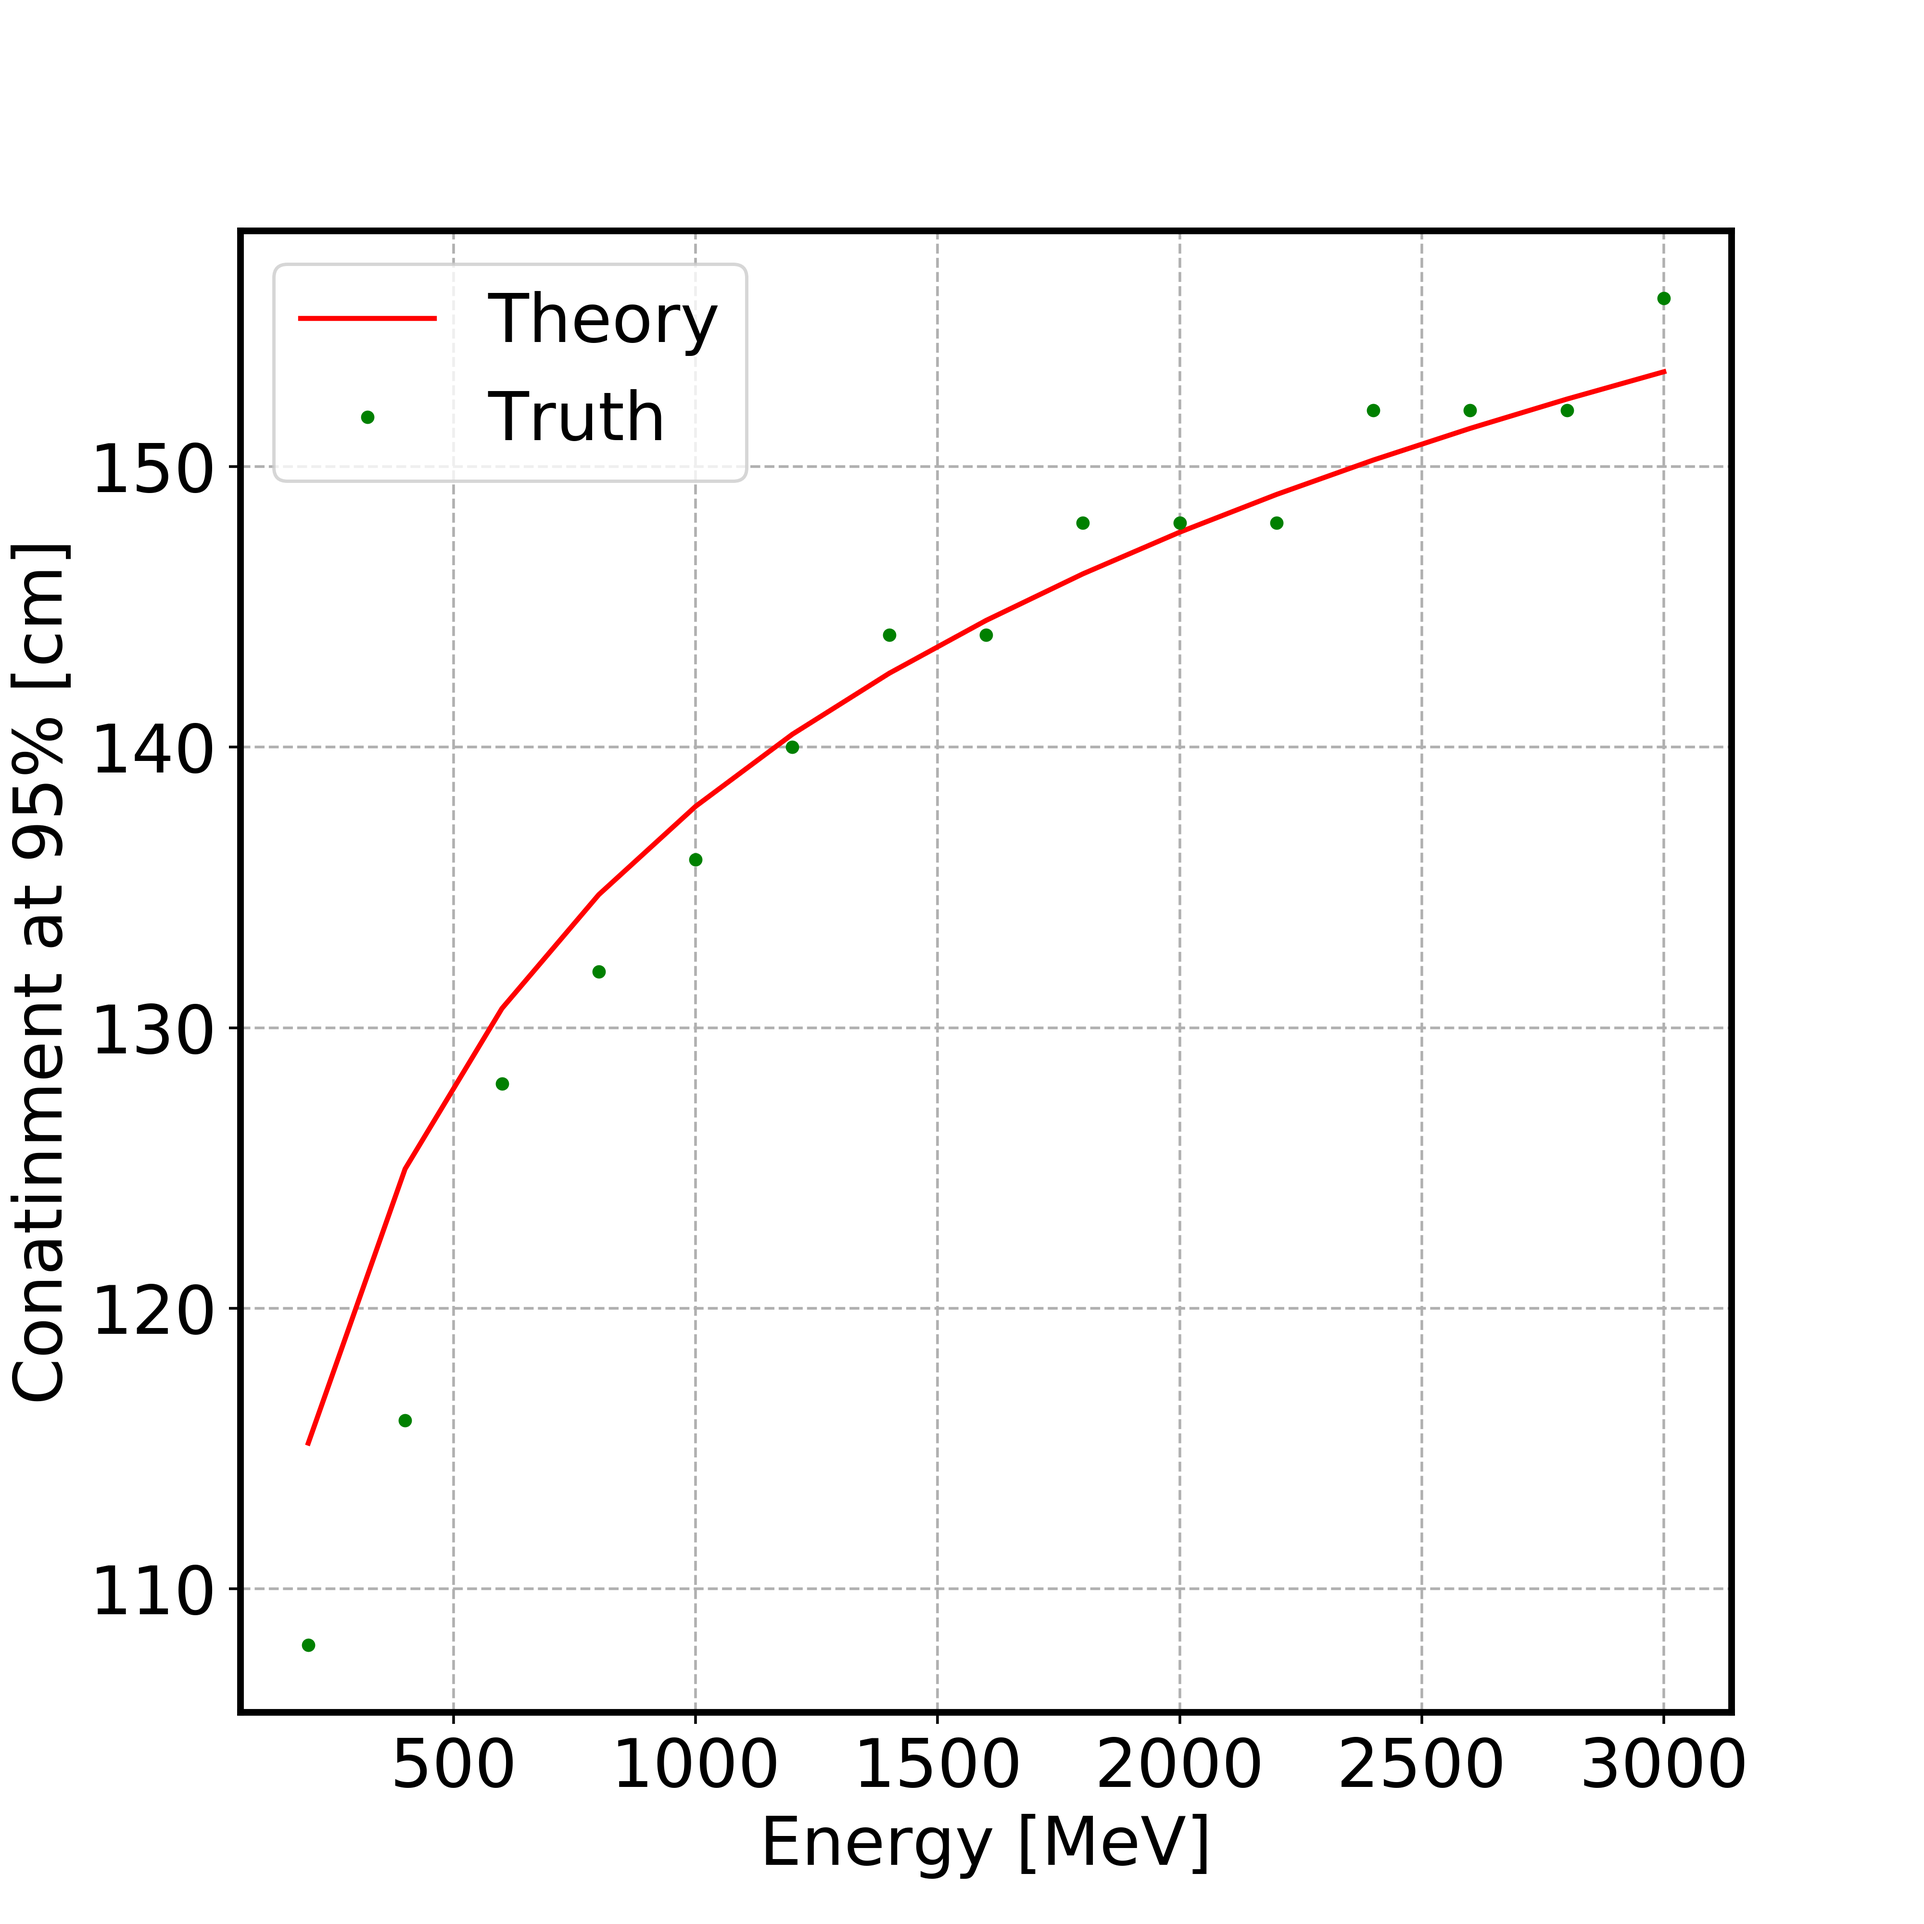
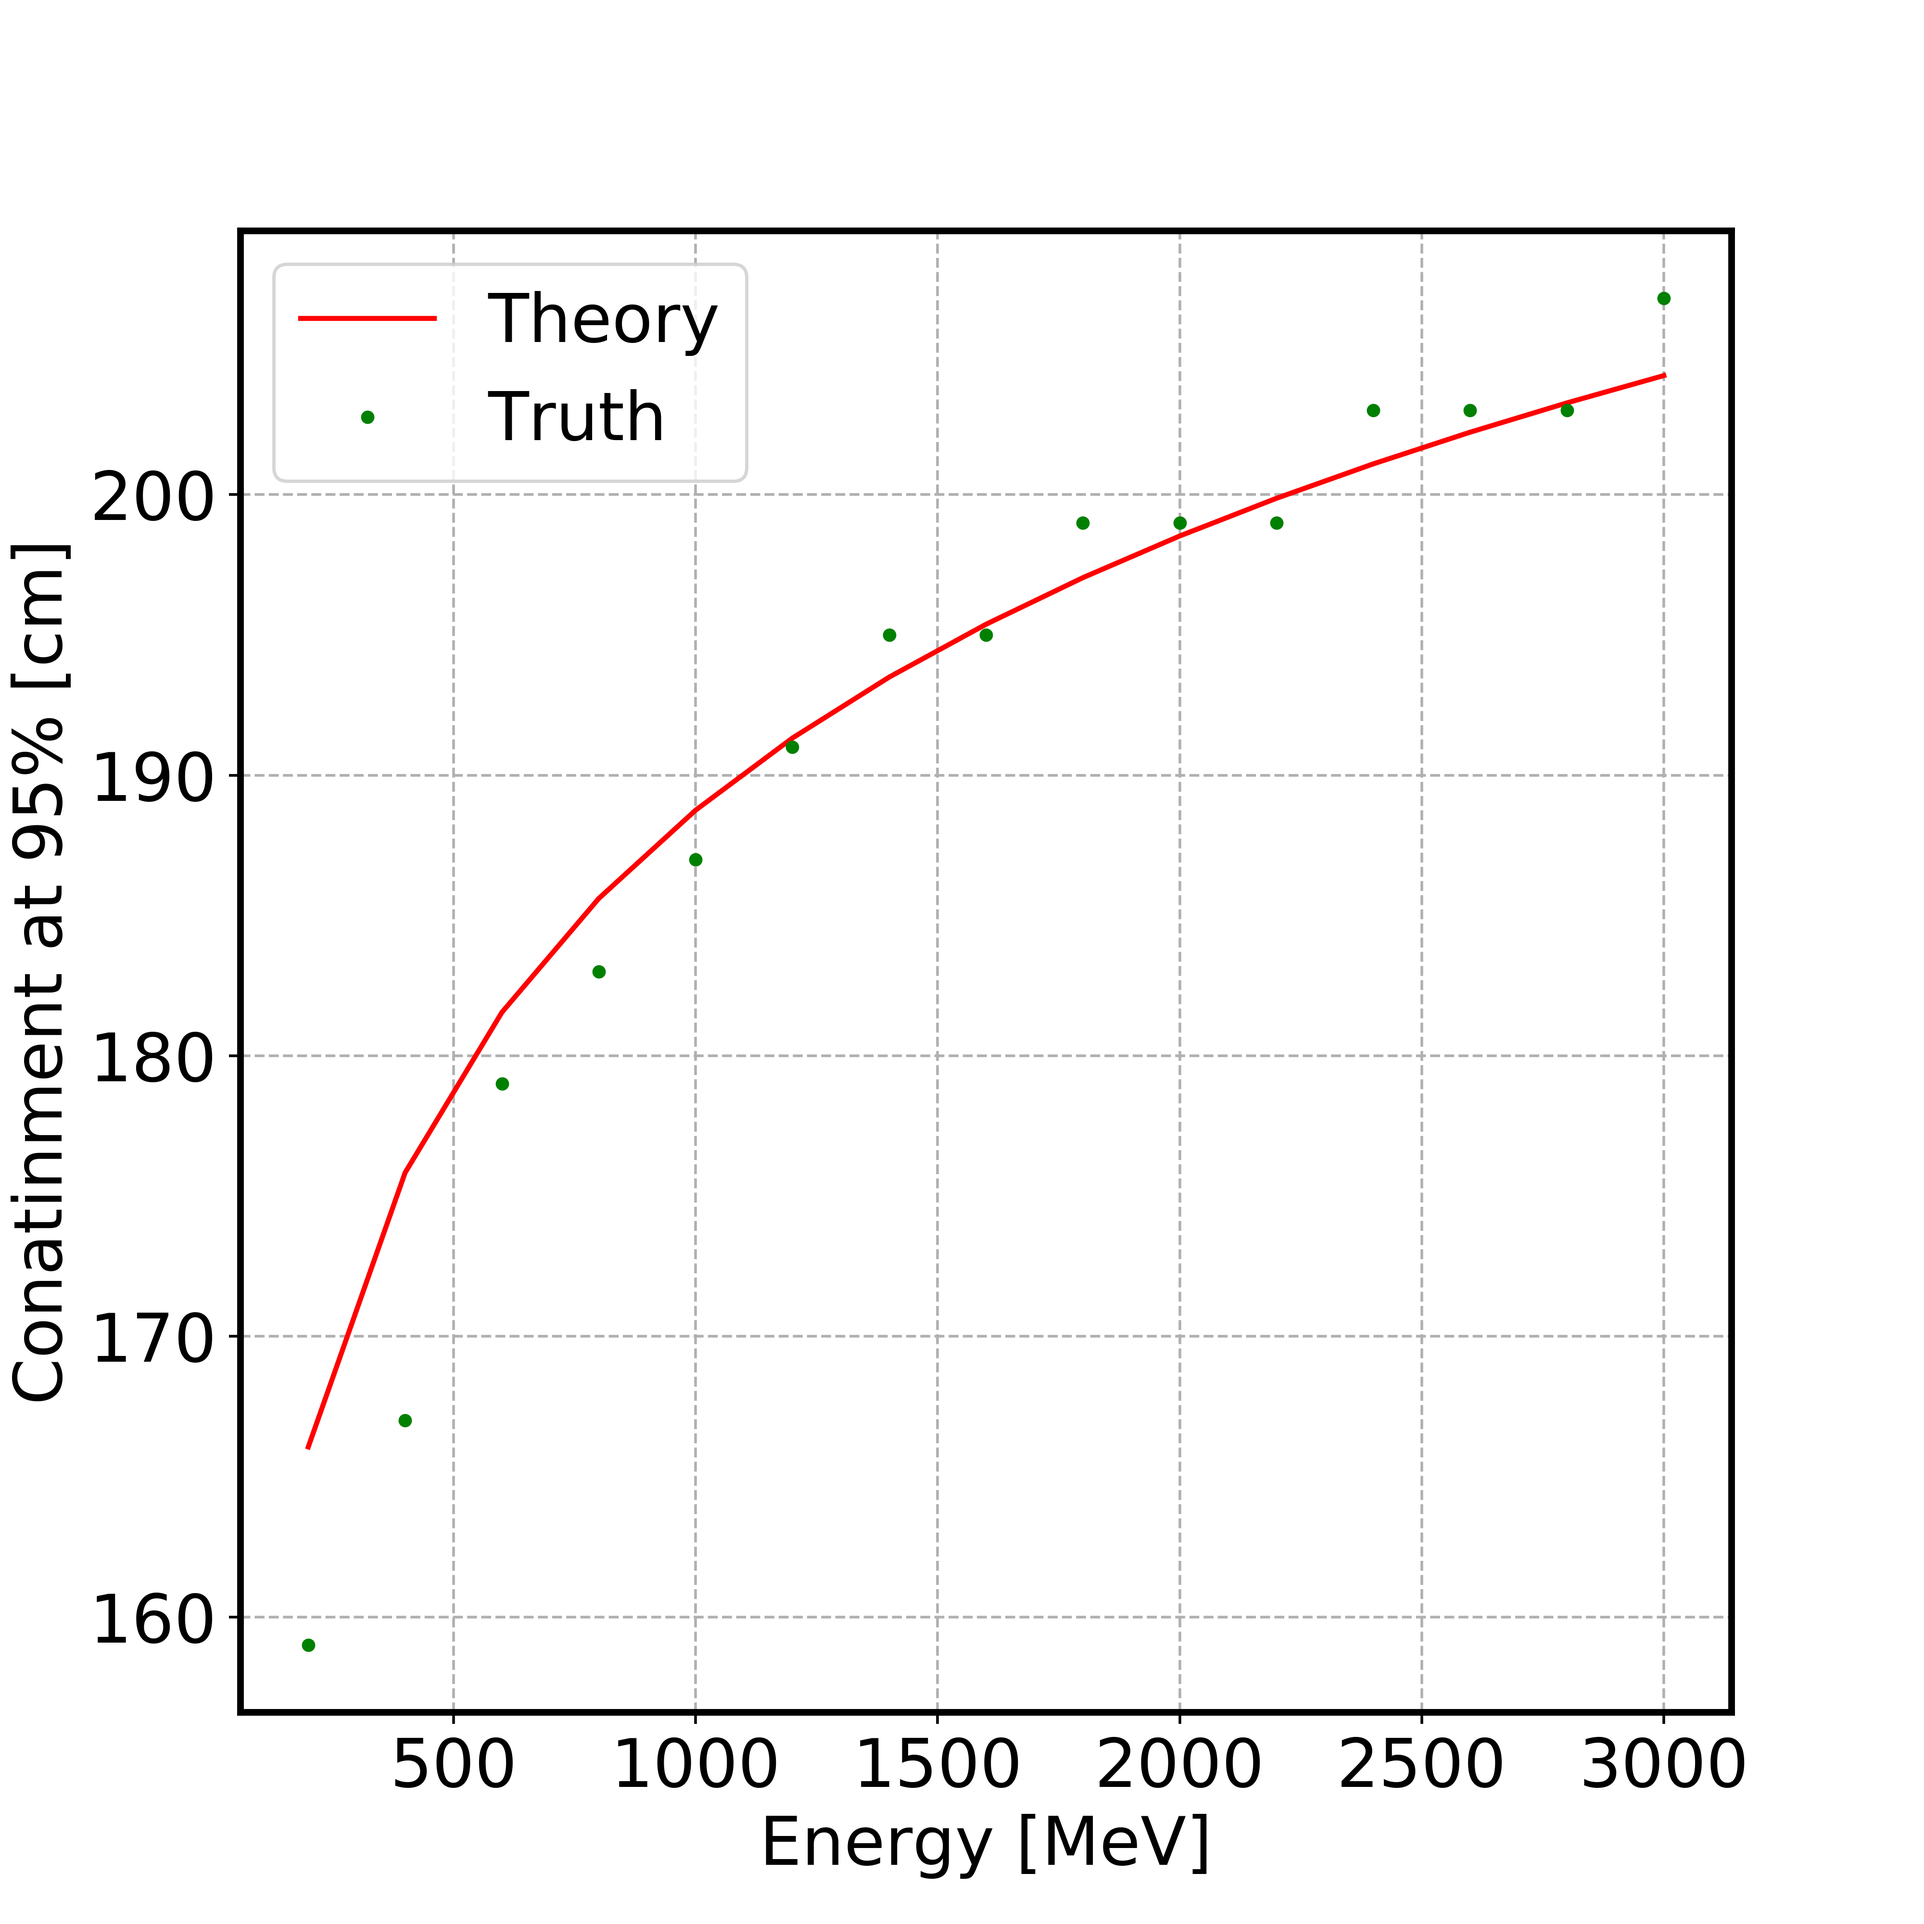
Added previously removed option for LArIAT sized geometry in truth

diff --git a/SBND_MolRadReco/MolRadReco_module.cc b/SBND_MolRadReco/MolRadReco_module.cc
@@ -511,16 +511,27 @@ double MolRadReco::GetTruthXYZE(simChannelVec_t simChannelVec, bool use3D, int e
 						vHitPos[1] = energyDeposit.y;	        // Y
 						vHitPos[2] = energyDeposit.z - 250.;	// Z
 
-						if (vHitPos[2] > 0. ) {addDataEntry(energyDeposit.energy, vHitPos); dEnergyDepositedSum += energyDeposit.energy;} // delete any spurious data points (z<0) and add the entries to the vector
-					
+						//if (vHitPos[2] > 0. ) {addDataEntry(energyDeposit.energy, vHitPos); dEnergyDepositedSum += energyDeposit.energy;} // delete any spurious data points (z<0) and add the entries to the vector
+						
+						// Use this block as opposed to above if want to use LArIAT geometry
+						if (vHitPos[2] > 0. && vHitPos[2] < 90. && vHitPos[0] < 47. && vHitPos[1] < 40. && vHitPos[0] > -47. && vHitPos[1] > -40. ) {
+							addDataEntry(energyDeposit.energy, vHitPos); dEnergyDepositedSum += energyDeposit.energy;
+						} 
+
 					} else { // 2D case
 						
 						TVectorD vHitPos(2);
 						vHitPos[0] = energyDeposit.x - 102.5;	// X
 						vHitPos[1] = energyDeposit.z - 250.;	// Z
 						
-						if (vHitPos[1] > 0.) { addDataEntry(energyDeposit.energy, vHitPos); dEnergyDepositedSum += energyDeposit.energy; } // delete any spurious data points (z<0) and add the entries to the vector
+						//if (vHitPos[1] > 0.) { addDataEntry(energyDeposit.energy, vHitPos); dEnergyDepositedSum += energyDeposit.energy; } // delete any spurious data points (z<0) and add the entries to the vector
+						
+						// Use this block as opposed to above if want to use LArIAT geometry
+						if (vHitPos[1] > 0. && vHitPos[1] < 90. && vHitPos[0] < 47. && vHitPos[0] > -47. ) { 
+							addDataEntry(energyDeposit.energy, vHitPos); dEnergyDepositedSum += energyDeposit.energy; 
+						} // delete any spurious data points (z<0) and add the entries to the vector
 
+						// Fill the 2D position histogram
 						if (HistFill != event) { 
 							hTruePosition2D->Fill(vHitPos[1], vHitPos[0], energyDeposit.energy);
 						}
@@ -650,7 +661,7 @@ void MolRadReco::beginJob() {
 	hEnergyProfilePCA = tfs->make<TH1D>("energyprofilePCA","Energy Profile of Events (PCA Axis); Z [cm]; dEdx [MeV/cm]",100,0.,500.);
 
 	// True Energy profile 
-	hTrueEnergyProfile = tfs->make<TH1D>("trueenergyprofile","Energy Profile of Events (Truth); Z [cm]; True dE [MeV]",125,0.,500.);
+	hTrueEnergyProfile = tfs->make<TH1D>("trueenergyprofile","Energy Profile of Events (Truth); Z [cm]; True dE [MeV]",100,0.,500.);
 
 	// True energy profile in X direction
 	hTrueEnergyProfileX = tfs->make<TH1D>("hTrueEnergyProfileX","Energy Profile of Events (Truth) in X Dir; X [cm]; True dE [MeV]",600,-60.,60.);
@@ -806,6 +817,7 @@ void MolRadReco::analyze(art::Event const & event) { // Analyser: runs once per 
 	// Make Histograms
 	for (int i = 0; i < N; i++ ) {
 		hEnergyProfile->Fill(vEntries[i].position[1], vEntries[i].energy); //Choose 1 event to look at the energy profile
+		
 		hReco_PerpDist_2D_All->Fill(std::abs(vEntries[i].position[0]), vEntries[i].energy); // Moliere calculation for Reco data
 
 		// Fill 2D histogram (event display like) (Z,X,Energy) Shows a histogram of the x-z plane of all the showers combined
@@ -1186,8 +1198,9 @@ void MolRadReco::endJob()
 
 
 	// True energy profile normalised
-	//double scale = hTrueEnergyProfile->GetBinContent(hTrueEnergyProfile->GetMaximumBin()); // Scale by the max bin value
-	//hTrueEnergyProfile->Scale (1./scale);
+	double scale = hTrueEnergyProfile->GetBinContent(hTrueEnergyProfile->GetMaximumBin()); // Scale by the max bin value
+	hTrueEnergyProfile->Scale (1./scale);
+	
 	Truth_E_Total+=hTrueEnergyProfile -> Integral();
 	//hTrueEnergyProfile->Scale (1./fills);
 	std::cout << "IntegralTrue= "<< hTrueEnergyProfile -> Integral() << std::endl; // Output the number of entries 
@@ -1199,6 +1212,9 @@ void MolRadReco::endJob()
     TrueEnergyProfileFit -> SetParLimits(3,  1,  30);   // THETA
 	hTrueEnergyProfile->Fit("TrueEnergyProfileFit","R"); 
 	TrueEnergyProfileFit = hTrueEnergyProfile->GetFunction("TrueEnergyProfileFit");
+
+	
+	
 
 	// Normalise reco Energy profile
 	// scale = hEnergyProfile->GetBinContent(hEnergyProfile->GetMaximumBin()); // Scale by the max bin value
@@ -1245,9 +1261,11 @@ void MolRadReco::endJob()
 
 
 	std::cout << "+++++++++++++++++++++++++++++++++++++++++++++++++++++++++++++++++++++++++++++++++++++++\n\n" << std::endl;
-	std::cout << "True Longitudinal Profile 95% Containment: " << L_Containment  << std::endl;
+	std::cout << "True Longitudinal Profile 95% Containment:\t" << L_Containment  << std::endl;
+	std::cout << "True Longitudinal Profile Max Bin:\t" << hTrueEnergyProfile -> GetBinCenter(hTrueEnergyProfile -> GetMaximumBin())  << std::endl;
+	std::cout << "True Longitudinal Profile Max Bin Fit:\t" << TrueEnergyProfileFit->GetMaximumX() << std::endl;
 	std::cout << std::endl;
-	std::cout << "Moliere Radius Reco 2D:\t\t" 	   << hReco_PerpDist_2D_Rm        << "\t 2 * Moliere Radius Reco 2D:\t\t"        << hReco_PerpDist_2D_2Rm       << std::endl;
+	std::cout << "Moliere Radius Reco 2D:\t\t" 	   << hReco_PerpDist_2D_Rm        << "\t 2 * Moliere Radius Reco 2D:\t\t"        << hReco_PerpDist_2D_2Rm    << std::endl;
 	std::cout << "Moliere Radius Reco 2D PCA:\t"   << hReco_PerpDist_2D_PCA_Rm    << "\t 2 * Moliere Radius Reco 2D PCA:\t"   << hReco_PerpDist_2D_PCA_2Rm   << std::endl;
 	std::cout << "Moliere Radius Reco 2D SOSA:\t"  << hReco_PerpDist_2D_SOSA_Rm   << "\t 2 * Moliere Radius Reco 2D SOSA:\t"  << hReco_PerpDist_2D_SOSA_2Rm  << std::endl;
 	std::cout << std::endl;
@@ -1257,7 +1275,6 @@ void MolRadReco::endJob()
 	std::cout << std::endl;
 	std::cout << "Moliere Radius Truth 3D:\t" 	   << hTruth_PerpDist_3D_Rm       << "\t 2 * Moliere Radius Truth 3D:\t\t" 	  << hTruth_PerpDist_3D_2Rm      << std::endl;
 	std::cout << "Moliere Radius Truth 3D PCA:\t"  << hTruth_PerpDist_3D_PCA_Rm   << "\t 2 * Moliere Radius Truth 3D PCA:\t"  << hTruth_PerpDist_3D_PCA_2Rm  << std::endl;
-
 	std::cout << "\n\n+++++++++++++++++++++++++++++++++++++++++++++++++++++++++++++++++++++++++++++++++++++++" << std::endl;
 
 

diff --git a/SBND_MolRadReco/Plots.py b/SBND_MolRadReco/Plots.py
@@ -2,6 +2,7 @@
 This code will be used to make plots of the data from the MolRadReco Module.
 Longitudinal Profile
 Peak Maximum
+Moliere Radius
 
 """
 
@@ -32,8 +33,7 @@ def fTmax(E, E_c, X_0):
 
 # Returns the 95% cintainment estimation in theory
 def fLongitudinal(E, E_c, Z, X_0):
-    return fTmax(E, E_c, X_0) + (0.08 * Z + 9.6* X_0  ) - 32
-
+    return fTmax(E, E_c, X_0) + (0.08 * Z + 9.6 ) * X_0 
 
 # Values are from showers averaged over 500 events
 
@@ -47,31 +47,79 @@ E_s    =  0.511 * np.sqrt(137 * 4 * np.pi)  # Scale energy
 E_c    =  35.2                              # Critical Energy
 
 # The longitudinal profie in truth at 95% containment
-Lon_Truth = np.array([108, 116, 128,132, 136, 140, 144,144, 148, 148, 148, 152, 152, 152, 156]) 
+Lon_Truth  = np.array([108, 116, 128,132, 136, 140, 144,144, 148, 148, 148, 152, 152, 152, 156]) + 51
 Lon_Theory = fLongitudinal(Energy, E_c, Z, X_0)
+Lon_Diff   = Lon_Theory - Lon_Truth
 
 # The maximum of the longitudinal profile
-TMax_Truth    = np.array([18, 26, 30, 34, 42, 42, 42, 42, 54, 42, 42, 54, 54, 54, 54])
-TMax_Theory = fTmax(Energy, E_c, X_0) # Get the TMax Variable from Theory
+TMax_Truth        = np.array([18, 26, 30, 34, 42, 42, 42, 42, 54, 42, 42, 54, 54, 54, 54])                                    # Peak Max values unfitted
+TMax_Truth_Fit    = np.array([18, 22.4, 27.5, 33.6, 37.0, 39.7, 39.8, 42.9, 46.5, 45.9, 48.6, 48.2, 50.2, 50.8, 52.6  ] )     # Fitted Peak max values
+TMax_Theory       = fTmax(Energy, E_c, X_0)                                                                                   # Get the TMax Variable from Theory
+TMax_Diff         = TMax_Theory - TMax_Truth_Fit # Residuals
 
+# Moliere Radius
+R_m_3D     = np.array([14.3, 13.7, 14.4, 13.9, 13.6, 13.7, 13.7, 13.7, 13.7, 13.7, 14.0, 13.7, 13.6, 13.5, 13.7])     # 3D Truth R_m
+R_m_3D_2   = np.array([23.1, 22.2, 23, 22.7, 22.4, 22.4, 22.4, 22.8, 22.3, 22.5, 23.6, 22.6, 22.4, 22.3, 22.4 ])      # 3D Truth 2 * R_m
+R_m_PDG    = 8.5  # PDG and Amaldi Definition of Moliere Radius
+R_m_Fabjan = 11   # Fabjan and Amaldi Definition of Moliere Radius
 # ----------------------- Plot the TMax Graph --------------------
-
 
 plt.figure(0)
 plt.plot(Energy , TMax_Theory , 'r-',  markersize=3, label = 'Theory')
-plt.plot(Energy , TMax_Truth , 'go',  markersize=3, label = 'Truth')
+plt.plot(Energy , TMax_Truth_Fit , 'go',  markersize=3, label = 'Truth')
 plt.ylabel("TMax [cm]")
 plt.xlabel("Energy [MeV]")
 plt.grid()
-plt.legend() # put legend at the top right of the plot
+plt.legend() 
 plt.savefig("./Plots/TMax.png", dpi=500)
 
-# ----------------------- Plot the L @ 95% Graph --------------------
 plt.figure(1)
+plt.plot(Energy , TMax_Diff , 'bo',  markersize=3, label = 'TMax')
+plt.ylabel("Diff [cm]")
+plt.xlabel("Energy [MeV]")
+plt.grid()
+plt.legend() 
+plt.savefig("./Plots/TMaxDiff.png", dpi=500)
+
+# ----------------------- Plot the L @ 95% Graph --------------------
+plt.figure(2)
 plt.plot(Energy , Lon_Theory , 'r-',  markersize=3, label = 'Theory')
 plt.plot(Energy , Lon_Truth , 'go',  markersize=3, label = 'Truth')
 plt.ylabel("Conatinment at 95% [cm]")
 plt.xlabel("Energy [MeV]")
 plt.grid()
-plt.legend() # put legend at the top right of the plot
+plt.legend() 
 plt.savefig("./Plots/Lon_95%.png", dpi=500)
+
+plt.figure(3)
+plt.plot(Energy , Lon_Diff , 'bo',  markersize=3, label = 'Lon(95%)')
+plt.ylabel("Diff [cm]")
+plt.xlabel("Energy [MeV]")
+plt.grid()
+plt.legend(fontsize = "small") 
+plt.savefig("./Plots/Lon95%_Diff.png", dpi=500)
+
+# ----------------------- Section 2: Moliere Radius --------------------
+
+plt.figure(4)
+plt.plot(Energy , R_m_3D , 'ro',  markersize=3, label = 'Truth')
+plt.axhline(y=R_m_Fabjan, color='b', linestyle='--', label = "Fabjan+ Amaldi")
+plt.axhline(y=R_m_PDG, color='k', linestyle='--', label = "PDG + Amaldi")
+plt.ylabel("Moliere Radius [cm]")
+plt.xlabel("Energy [MeV]")
+plt.grid()
+plt.legend(bbox_to_anchor=(0., 1.02, 1., .102), loc=3,
+           ncol=2, mode="expand", borderaxespad=0., fontsize = 13.5)
+plt.savefig("./Plots/Moliere_Radius_SBND.png", dpi=500)
+
+plt.figure(5)
+plt.plot(Energy , 2 * R_m_3D , 'go',  markersize=3, label = 'Truth (2 * 90% Containment)')
+plt.plot(Energy , R_m_3D_2 , 'ro',  markersize=3, label = 'Truth (95% Containment)')
+plt.axhline(y=2 * R_m_Fabjan, color='b', linestyle='--', label = "Fabjan + Amaldi")
+plt.axhline(y=2 * R_m_PDG, color='k', linestyle='--', label = "PDG + Amaldi")
+plt.ylabel("2 * Moliere Radius [cm]")
+plt.xlabel("Energy [MeV]")
+plt.grid()
+plt.legend(bbox_to_anchor=(0., 1.02, 1., .102), loc=3,
+           ncol=2, mode="expand", borderaxespad=0., fontsize = 13.5)
+plt.savefig("./Plots/Moliere_Radius_2_SBND.png", dpi=500)
